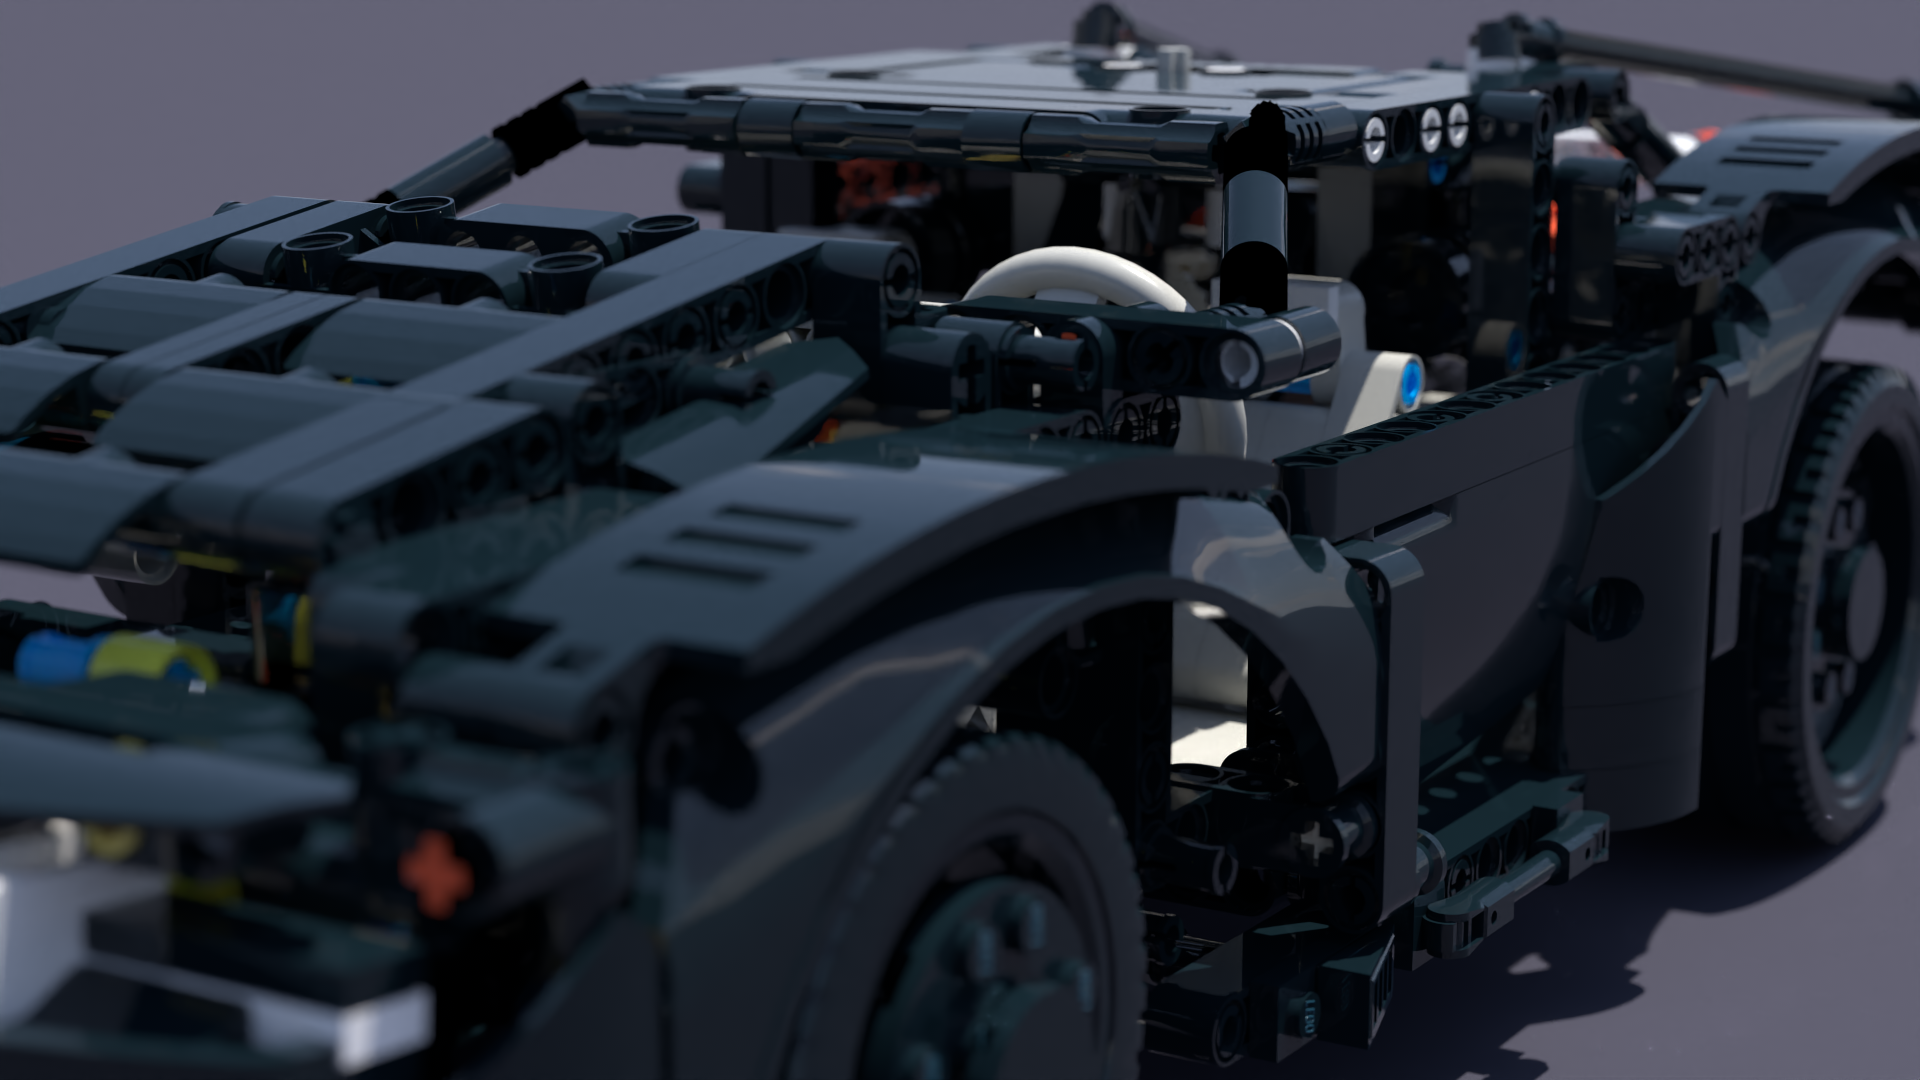
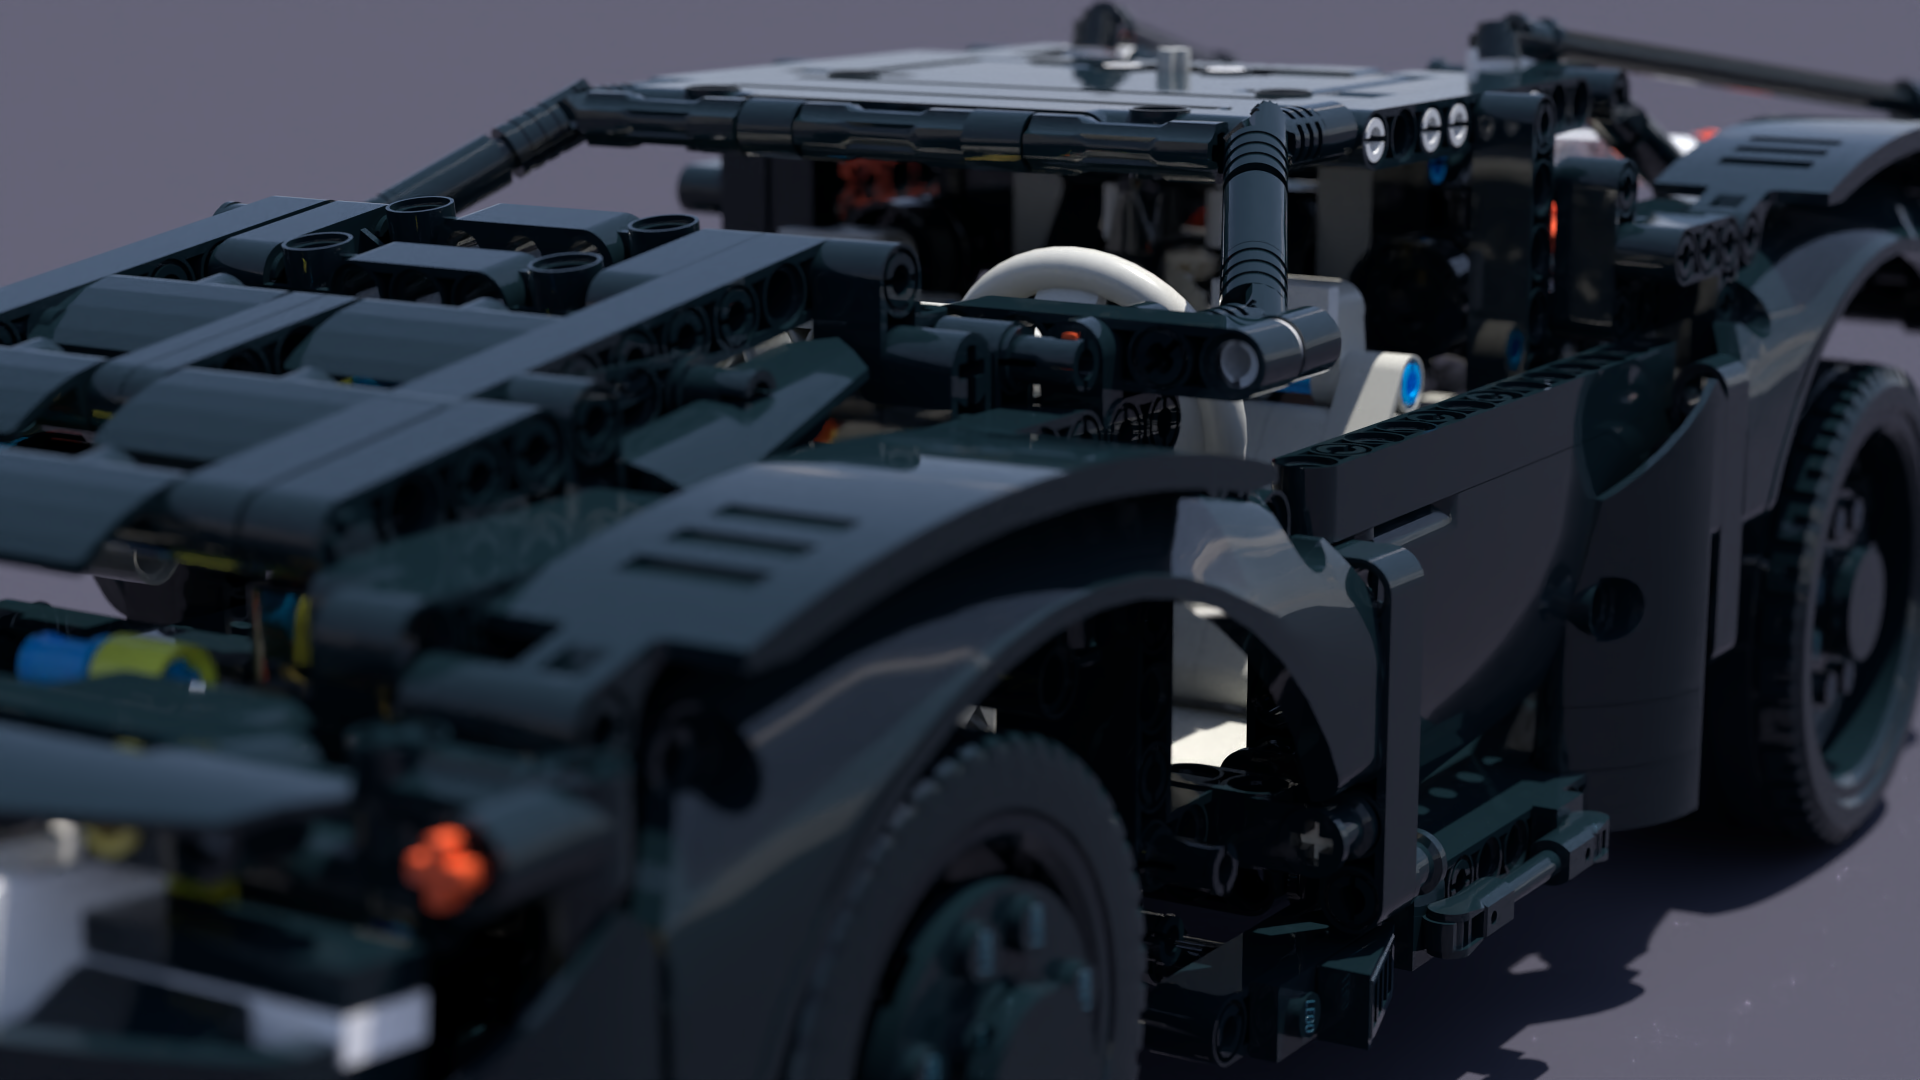
Cull backface rays in Plastic material

diff --git a/src/materials.rs b/src/materials.rs
@@ -644,6 +644,11 @@ impl Plastic {
     fn compute_reflectance(&self, ray: &Ray, scattered: &Ray, result: &HitResult, textures: &[Texture]) -> Vec3A {
         let wi = -ray.direction;
         let wo = scattered.direction;
+
+        if result.geometric_normal.dot(wi) <= 0.0 || result.geometric_normal.dot(wo) <= 0.0 {
+            return Vec3A::ZERO;
+        }
+
         let n = self.get_mapped_normal(result, result.shading_normal, textures);
 
         let cos_i = n.dot(wi);
